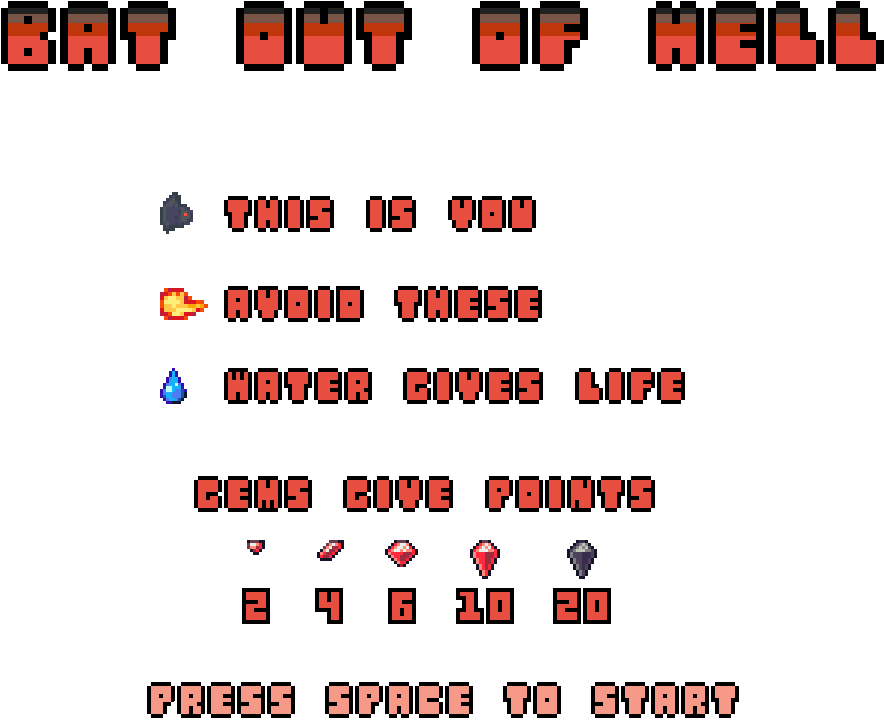
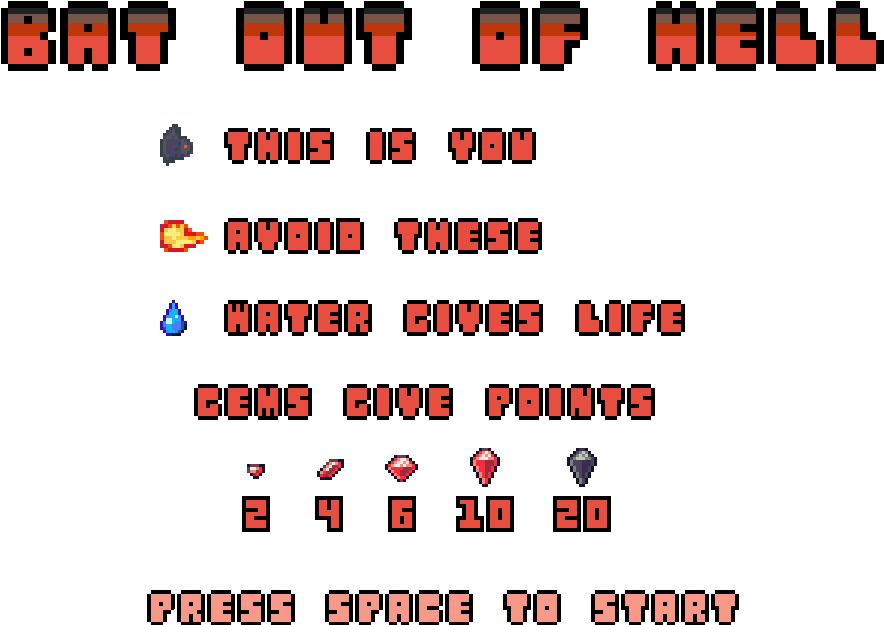
Start-up screen now created

diff --git a/gamelib/main.py b/gamelib/main.py
@@ -72,6 +72,7 @@ def main():
     start_game = False
     # Used to add the start up text to a group
     start_up = True
+    help_screen = True
 
 
     # Game Loop
@@ -83,6 +84,22 @@ def main():
                 # And if it is, quit the game
                 if event.key == K_ESCAPE:
                     running = False
+                # On pressing enter, it will give game info. If you haven't starter and you press it again
+                # it will take you back to the start screen
+                # If you have started, it will return you to the game
+                elif event.key == K_RETURN:
+                    for sprite in startup:
+                        sprite.kill()
+                        del sprite
+                    if help_screen:
+                        new_help_screen = game_objects.HelpScreen(display_size)
+                        startup.add(new_help_screen)
+                        help_screen = False
+                    else:
+                        help_screen = True
+                        if start_game == False:
+                            startup_text = game_objects.StartText(display_size)
+                            startup.add(startup_text)
                 # Check if space was pressed
                 elif event.key == K_SPACE:
                     # If it is, remove player and enemy sprites
@@ -158,6 +175,7 @@ def main():
         screen.blit(background, (0, 0))
         # This draws all sprites on to the screen
         # Making sure clouds are drawn first
+        clouds.draw(screen)
         if start_game:
             all_but_clouds.draw(screen)
             # Draws the score counter
@@ -175,7 +193,6 @@ def main():
             for x in range(10 - game_objects.Water.lives):
                 heart = game_objects.Heart((health_range + x + 1) * 25, False)
                 screen.blit(heart.image, heart.rect)
-        clouds.draw(screen)
         startup.draw(screen)
 
         # Saves the score, then set to false to it doesn't run again

diff --git a/gamelib/game_objects.py b/gamelib/game_objects.py
@@ -175,7 +175,7 @@ class Heart(pygame.sprite.Sprite):
         self.rect = self.image.get_rect(center=(0 + x_value, 40))
 
 class StartText(pygame.sprite.Sprite):
-    # Used for the text at the start of the game.
+    # Used for the start up screen
     def __init__(self, display_size):
         super(StartText, self).__init__()
         self.images = []
@@ -200,6 +200,31 @@ class StartText(pygame.sprite.Sprite):
         if self.counter >= 32:
             self.counter = 0
 
+class HelpScreen(pygame.sprite.Sprite):
+    # Used for the text at the start of the game.
+    def __init__(self, display_size):
+        super(HelpScreen, self).__init__()
+        self.images = []
+        for x in range(1, 3):
+            self.images.append(pygame.image.load('images/help_screen' + str(x) + '.png'))
+        self.index = 0
+        self.counter = 0
+        self.image = self.images[self.index]
+        self.image.set_colorkey((0, 0, 0), RLEACCEL)
+        self.rect = self.image.get_rect(center=(display_size["display_w"] / 2, display_size["display_h"] / 2))
+
+    def update(self):
+        if self.counter % 16 == 0:
+            self.index += 1
+            if self.index >= len(self.images):
+                self.index = 0
+            self.image = self.images[self.index]
+            self.image.set_colorkey((0, 0, 0), RLEACCEL)
+            self.counter += 1
+        else:
+            self.counter += 1
+        if self.counter >= 32:
+            self.counter = 0
 
 
 
